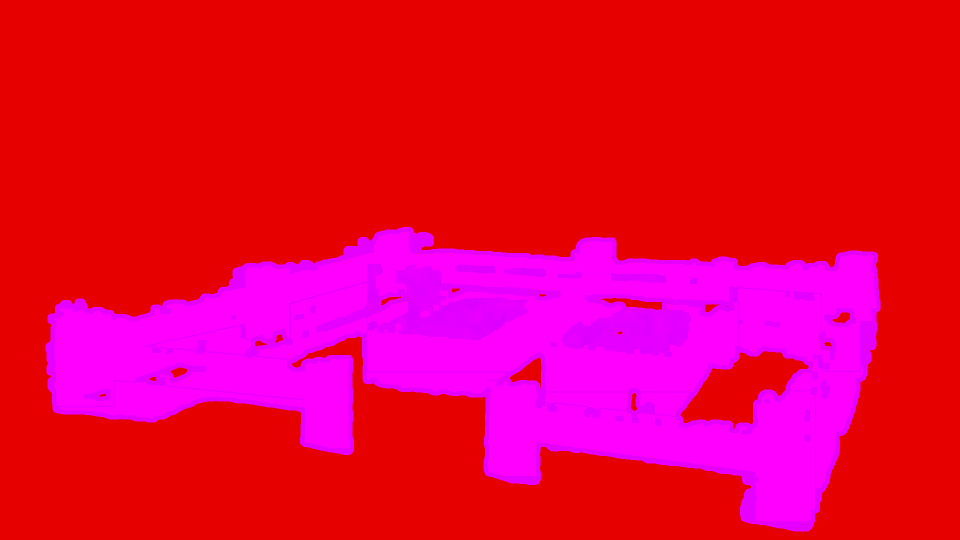
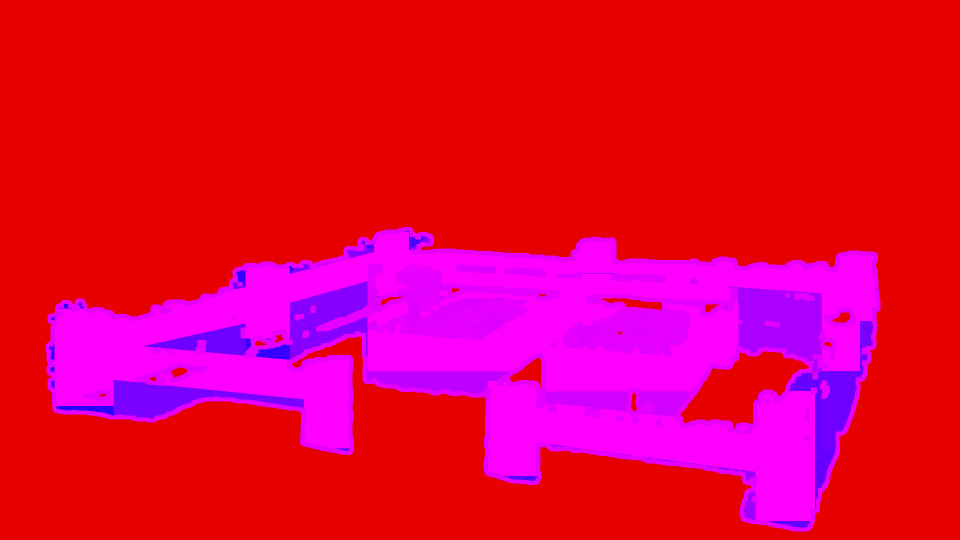
Story physics pass: stelae lowered from above frame (opaque) with true occlusion by beds, reflections/shadows appear with their element, no stray fragments

diff --git a/index.html b/index.html
@@ -8,13 +8,13 @@
 <meta name="theme-color" content="#f6f1e8">
 <meta property="og:title" content="ПАМЯТЬ.БАЙ — памятники и установка под ключ">
 <meta property="og:description" content="От заливки фундамента до установки памятника. Гранит, плитка, ограда, благоустройство. Беларусь.">
-<meta property="og:image" content="/assets/motion/k11.webp?v=v2-10230853">
+<meta property="og:image" content="/assets/motion/k11.webp?v=v3-10231015">
 <link rel="preconnect" href="https://fonts.googleapis.com">
 <link rel="preconnect" href="https://fonts.gstatic.com" crossorigin>
 <link href="https://fonts.googleapis.com/css2?family=Cormorant+Garamond:ital,wght@0,400;0,500;0,600;1,400;1,500&display=swap" rel="stylesheet">
 <link rel="preload" as="image" href="/assets/img/hero-plate.jpg">
-<link rel="stylesheet" href="/css/base.css?v=v2-10230853">
-<link rel="stylesheet" href="/css/site.css?v=v2-10230853">
+<link rel="stylesheet" href="/css/base.css?v=v3-10231015">
+<link rel="stylesheet" href="/css/site.css?v=v3-10231015">
 </head>
 <body>
 <header class="top" id="top">
@@ -132,7 +132,7 @@
   </div>
   <div class="anat">
     <div class="anat-photo"><div class="anat-stage">
-      <img src="/assets/motion/k11.webp?v=v2-10230853" loading="lazy" alt="Готовый гранитный комплекс: двойная стела со сквозным крестом, цветники, ограда">
+      <img src="/assets/motion/k11.webp?v=v3-10231015" loading="lazy" alt="Готовый гранитный комплекс: двойная стела со сквозным крестом, цветники, ограда">
       <button class="hs" style="--x:55;--y:34" aria-label="Стелы"><b>1</b></button>
       <button class="hs" style="--x:60.3;--y:20.5" aria-label="Сквозной крест"><b>2</b></button>
       <button class="hs" style="--x:58.9;--y:52" aria-label="Ваза"><b>3</b></button>
@@ -249,7 +249,7 @@
   </div>
 </footer>
 
-<script src="/js/story-motion.js?v=v2-10230853"></script>
-<script src="/js/main.js?v=v2-10230853"></script>
+<script src="/js/story-motion.js?v=v3-10231015"></script>
+<script src="/js/main.js?v=v3-10231015"></script>
 </body>
 </html>

diff --git a/js/story-motion.js b/js/story-motion.js
@@ -18,7 +18,7 @@
   var live = sec.querySelector('.sc-live');
   var calm = window.matchMedia('(prefers-reduced-motion: reduce)').matches;
   var small = window.matchMedia('(max-width: 820px)').matches;
-  var VER = 'v2-10230853';
+  var VER = 'v3-10231015';
   var A = '/assets/motion/';
   var PI_ = .05, PO_ = .955;
   var IW = 1920, IH = 1080, IAR = IW / IH;
@@ -270,7 +270,9 @@
       gl.enable(gl.BLEND); gl.blendFunc(gl.SRC_ALPHA, gl.ONE_MINUS_SRC_ALPHA);
       var AW = spr.size[0], AH = spr.size[1], an = 'a' + st.k, list = [];
       for (var i = 0; i < spr.items.length; i++) {
-        var it = spr.items[i], u = clamp((st.t - it.t[0]) / (it.t[1] - it.t[0]));
+        var it = spr.items[i];
+        if (it.occ) continue;
+        var u = clamp((st.t - it.t[0]) / (it.t[1] - it.t[0]));
         if (u <= 0) continue;
         list.push([it, u]);
       }
@@ -287,9 +289,15 @@
         var e = 1 - Math.pow(1 - u3, 3);
         var settle = u3 > .82 ? Math.sin((u3 - .82) / .18 * Math.PI) * .012 : 0; // tiny bounce on landing
         var y = bx3[1] - (1 - e) * it3.d + settle * it3.d;
-        var al = sm(0, .45, u3);
+        var al = it3.nf ? 1 : sm(0, .2, u3);
         var uvr3 = [it3.uv[0] / AW, 1 - (it3.uv[1] + bx3[3]) / AH, (it3.uv[0] + bx3[2]) / AW, 1 - it3.uv[1] / AH];
         drawItem(an, bx3[0], y, bx3[2], bx3[3], uvr3, al, 0, 0);
+      }
+      // occluders: scene parts in front of falling objects, redrawn on top (true depth)
+      if (list.length) for (var o = 0; o < spr.items.length; o++) {
+        var oc = spr.items[o]; if (!oc.occ) continue;
+        var bo = oc.box, uvo = [oc.uv[0] / AW, 1 - (oc.uv[1] + bo[3]) / AH, (oc.uv[0] + bo[2]) / AW, 1 - oc.uv[1] / AH];
+        drawItem(an, bo[0], bo[1], bo[2], bo[3], uvo, 1, 0, 0);
       }
       gl.disable(gl.BLEND);
     }
